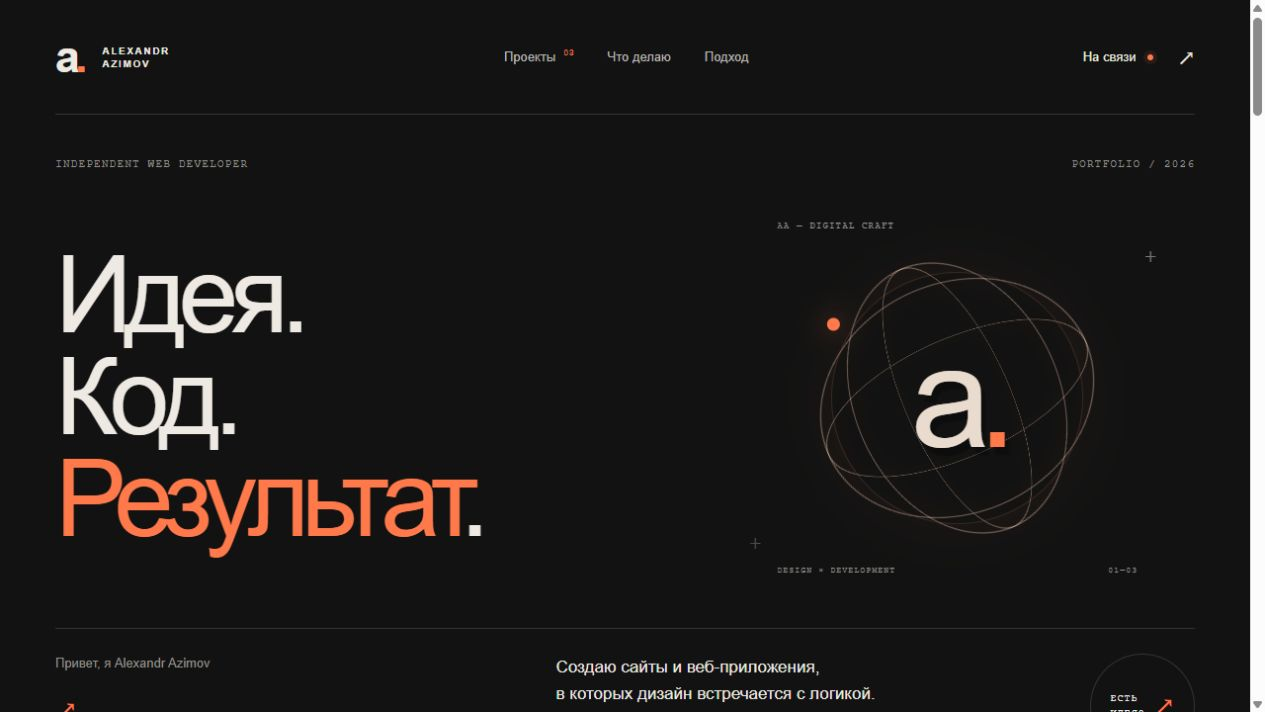
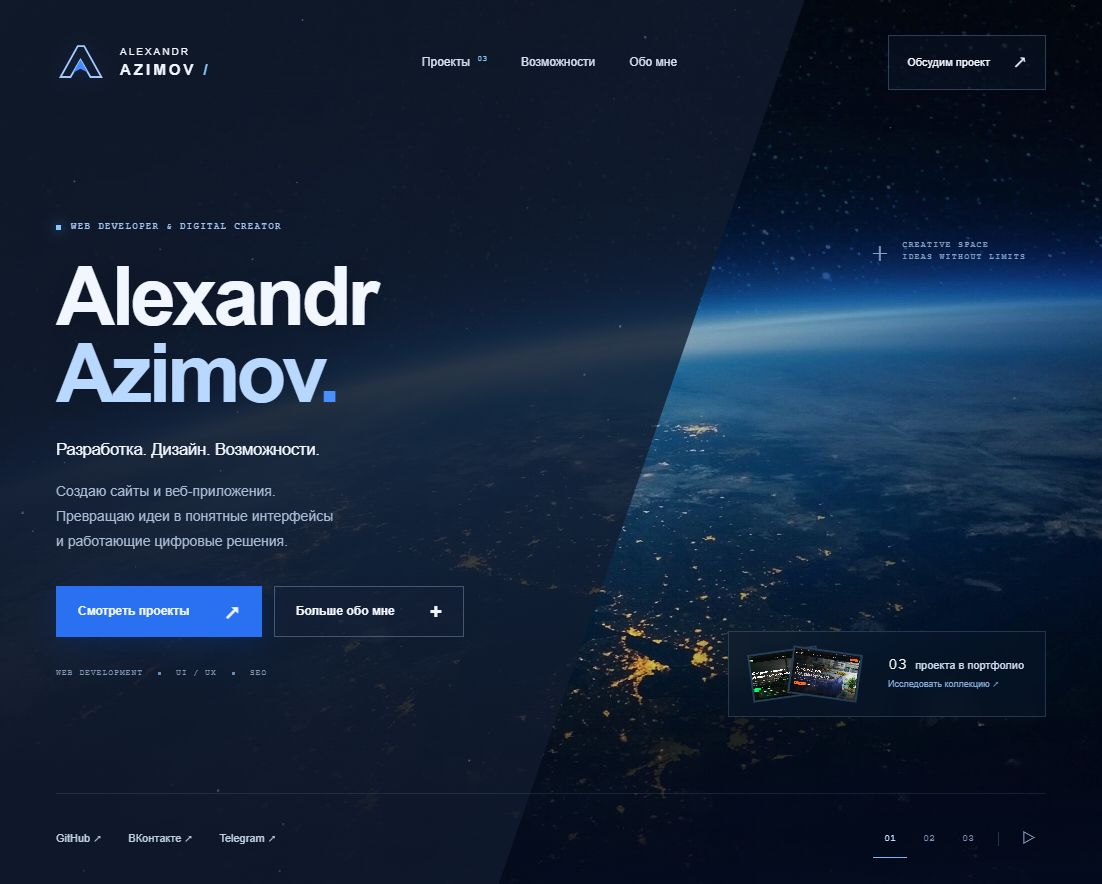
Redesign portfolio with cosmic ATLAS-inspired interface

diff --git a/space.css b/space.css
@@ -1,0 +1,10 @@
+:root{--bg:#080f20;--fg:#f2f6ff;--muted:#a8b7d0;--blue:#397aff;--cyan:#86c9ff;--line:#9dc3ff24;--mono:'Courier New',monospace;color-scheme:dark}
+*{box-sizing:border-box}html{scroll-behavior:smooth}body{margin:0;background:var(--bg);color:var(--fg);font:15px/1.6 Arial,sans-serif;-webkit-font-smoothing:antialiased}h1,h2,h3,p{margin:0}a{color:inherit;text-decoration:none}button{font:inherit;cursor:pointer}img{max-width:100%;display:block}a,button,summary{-webkit-tap-highlight-color:transparent}a:focus-visible,button:focus-visible,summary:focus-visible{outline:2px solid #9cdbff;outline-offset:5px}::selection{background:#3678dd;color:white}.wrap{width:min(1400px,calc(100% - 112px));margin:auto}.mono{font:10px/1.5 var(--mono);letter-spacing:1.4px}.muted{color:var(--muted)}.accent{color:var(--cyan)}.skip{position:fixed;top:-90px;left:15px;background:var(--blue);color:white;padding:12px;z-index:50}.skip:focus{top:10px}.cosmos,.diagonal,#particles{position:fixed;inset:0;pointer-events:none;z-index:-1}.cosmos{background:#040b19}.cosmos:after{content:'';position:absolute;inset:0;background:linear-gradient(90deg,#040b1950,transparent 80%),linear-gradient(0deg,#040d25bf,transparent 25%,#07102630)}.space-scene{position:absolute;inset:0;background-size:cover;background-position:center;opacity:0;transition:opacity 1.7s ease;transform:scale(1.025)}.space-scene.active{opacity:1;animation:drift 28s ease-in-out infinite alternate}.space-scene[data-scene="0"]{background-image:url('assets/space-earth.jpg')}.space-scene[data-scene="1"]{background-image:url('assets/space-orbit.jpg')}.space-scene[data-scene="2"]{background-image:url('assets/space-stars.jpg')}.diagonal{z-index:0;width:73%;background:linear-gradient(120deg,#111a2be6,#111c30b8);clip-path:polygon(0 0,100% 0,62% 100%,0 100%)}.diagonal:after{content:'';position:absolute;width:1px;height:150%;background:#5c9dff66;right:20%;top:-10%;transform:rotate(19deg)}#particles{z-index:1;opacity:.65}body>header,main,.hero-footer{position:relative;z-index:2}.header{height:125px;display:flex;align-items:center;gap:50px;justify-content:space-between}.brand{display:flex;align-items:center;gap:15px;font-size:10px;line-height:1.5;letter-spacing:2px}.brand strong{font-size:15px;letter-spacing:3px}.brand-slash{color:var(--cyan)}.brand-icon{width:49px;height:49px;color:#a5c8ff;filter:drop-shadow(0 0 10px #307cff42)}.nav{display:flex;gap:34px;font-size:12px;color:#d6e2f3}.nav a,.hero-socials a{transition:color .2s}.nav a:hover,.hero-socials a:hover{color:var(--cyan)}sup{font:8px var(--mono);color:var(--cyan);margin-left:4px}.header-contact{display:flex;gap:23px;font-size:11px;align-items:center;border:1px solid #96beff44;padding:11px 18px;background:#15243c40}.header-contact span{font-size:19px}.header-contact:hover{background:#2268e25c}.mobile-projects{display:none}.hero{min-height:calc(100svh - 216px);position:relative;display:flex;align-items:center;padding-top:32px;padding-bottom:50px}.hero-copy{width:65%;max-width:710px}.hero-kicker{display:flex;align-items:center;gap:10px;color:#a3c4f4;font-size:9px;margin-bottom:25px}.status-dot{width:5px;height:5px;background:#86c9ff;box-shadow:0 0 12px #5799ff}.hero h1{font-size:clamp(64px,7.4vw,112px);line-height:.94;letter-spacing:-.045em;font-weight:600;text-shadow:0 4px 35px #0003}.hero h1>span{color:#b8d8ff}.name-dot{color:#4a8fff}.hero-role{font-size:clamp(16px,1.5vw,22px);margin-top:25px;letter-spacing:-.01em}.hero-description{color:#aabbd5;font-size:14px;line-height:1.8;margin-top:15px}.hero-actions{display:flex;gap:12px;margin-top:32px}.button{padding:14px 21px;font-size:12px;font-weight:600;display:inline-flex;gap:35px;align-items:center;min-height:51px;border:1px solid transparent;transition:background .25s,transform .25s}.button span{font-size:21px;line-height:1}.button:hover{transform:translateY(-3px)}.button.primary{background:#2971f0;box-shadow:0 6px 28px #003aaa45}.button.primary:hover{background:#4386ff}.button.secondary{border-color:#bfd5ff4d;background:#15223d44}.button.secondary:hover{background:#294e7755}.hero-tech{display:flex;align-items:center;gap:15px;margin-top:30px;color:#839bbb;font-size:8px;letter-spacing:1px}.hero-tech i{height:3px;width:3px;background:#6289be}.hero-coordinate{position:absolute;right:2%;top:17%;display:flex;gap:12px;color:#b0d4f6b8;font-size:8px}.coordinate-mark{font-size:30px;font-weight:300;line-height:1}.project-teaser{position:absolute;bottom:76px;right:0;padding:18px 21px;background:#0b182d66;border:1px solid #a5ccff30;backdrop-filter:blur(14px);display:flex;align-items:center;gap:21px;transition:background .3s,transform .3s}.project-teaser:hover{background:#1e3c636e;transform:translateY(-4px)}.teaser-pictures{display:flex;padding-right:7px}.teaser-pictures img{width:70px;height:48px;object-fit:cover;object-position:top;border:2px solid #263e59;transform:rotate(-8deg)}.teaser-pictures img+img{margin-left:-30px;transform:rotate(8deg)}.project-teaser>span:last-child{font-size:11px;color:#cedbf0}.project-teaser strong{font:16px var(--mono);margin-right:5px;color:white}.project-teaser small{font-size:9px;color:#84addd}.hero-footer{height:91px;display:flex;justify-content:space-between;align-items:center;border-top:1px solid #9bbdf120}.hero-socials{display:flex;gap:27px;font-size:11px;color:#c0d0e7}.scene-controls{display:flex;align-items:center;gap:5px}.scene-controls button{background:none;color:#7e94b2;border:0;border-bottom:1px solid transparent;min-width:34px;height:37px;padding:6px 7px;font:10px var(--mono);transition:color .2s}.scene-controls button.selected{border-color:#79b5ff;color:#c2deff}.scene-controls button:hover{color:white}.scene-divider{height:14px;width:1px;background:#8294b74a;margin:0 8px}.scene-controls #motion-toggle{font:17px Arial}.motion-paused .space-scene{animation-play-state:paused}.panel-open{overflow:hidden}
+/* Side panel echoes the original ATLAS layout, with real portfolio content. */
+#studio-panel{color:var(--fg);background:#0a1425f5;backdrop-filter:blur(25px);padding:0;border:0;border-left:1px solid #74a9ff70;box-shadow:-25px 0 90px #0008;width:min(1000px,78vw);max-width:100vw;height:100dvh;max-height:100dvh;margin:0 0 0 auto;inset:0;overflow:hidden}#studio-panel[open]{animation:panel-in .45s cubic-bezier(.2,.75,.2,1)}#studio-panel::backdrop{background:#01061152;backdrop-filter:blur(2px)}.panel-header{height:77px;display:flex;align-items:center;padding:0 35px;gap:25px;border-bottom:1px solid var(--line);background:#0c1829f5}.panel-brand{color:#8fc0ff;font-size:9px;white-space:nowrap}.panel-header nav{display:flex;gap:20px;margin-left:auto;font-size:11px;color:#b5c8e3}.panel-header nav a:hover{color:white}.panel-close{width:38px;height:38px;background:transparent;color:#c1d5f3;border:1px solid #a1b9dc30;font-size:27px;line-height:1;font-weight:300;flex-shrink:0;transition:background .2s}.panel-close:hover{background:#3475cc3b}.panel-scroll{height:calc(100% - 77px);overflow-y:auto;overscroll-behavior:contain;scroll-behavior:smooth;scrollbar-width:thin;scrollbar-color:#32517d #0a1425}.panel-scroll .wrap{width:calc(100% - 76px);max-width:900px}.section{padding:51px 0 48px;scroll-margin-top:30px}.section-top{display:flex;justify-content:space-between;align-items:center;gap:15px;margin-bottom:28px}.section-top>.mono:last-child:not(:first-child){font-size:8px}.eyebrow{font-size:9px;color:#a3c8fc}.eyebrow:before{content:'+';margin-right:10px;color:#5c9bff}h2{font-size:clamp(32px,3.5vw,50px);font-weight:500;line-height:1.1;letter-spacing:-.04em}.section-heading{display:flex;align-items:end;justify-content:space-between;gap:20px;margin-bottom:32px}.section-heading p{font-size:11px;color:var(--muted);line-height:1.8}.projects{display:grid;grid-template-columns:1fr 1fr;gap:28px 20px}.featured{grid-column:1/-1}.project{background:#10213a5e;border:1px solid var(--line);transition:border-color .25s}.project:hover{border-color:#4b91ef7a}.project-image{display:block;position:relative;overflow:hidden;padding:15px 15px 0;background:#17293b}.project-image.green{background:linear-gradient(135deg,#1e3f3e,#122836)}.project-image.blue{background:linear-gradient(135deg,#27425a,#162d48)}.project-image.orange{background:linear-gradient(135deg,#473631,#172b44)}.featured .project-image{padding:24px 36px 0}.project-image img{width:100%;height:auto;aspect-ratio:1.55;object-fit:cover;object-position:top;transition:transform .7s}.featured .project-image img{aspect-ratio:2.05}.project-image:hover img{transform:scale(1.035)}.preview-bar{display:flex;align-items:center;gap:4px;background:#111e30;padding:7px 8px;border:1px solid #b7d6ff15;border-radius:4px 4px 0 0}.preview-bar i{width:3px;height:3px;background:#7289a6;border-radius:50%}.preview-bar>span{font:7px var(--mono);color:#91a5be;margin:auto}.preview-bar .preview-lock{margin:0;font-size:11px}.project-open{position:absolute;bottom:13px;right:13px;display:grid;place-items:center;background:#2b73ee;width:32px;height:32px;font-size:21px;box-shadow:0 4px 20px #0005}.project-info{padding:20px}.project-number{font-size:8px;color:#7e9cbe}.project h3{font-size:24px;letter-spacing:-.025em;font-weight:500;margin:8px 0 11px}.project h3 a{display:flex;justify-content:space-between;gap:10px}.project h3 span{color:#8fb5e7;font-size:20px}.project p{font-size:12px;color:#a5b8d0;line-height:1.8}.tags{display:flex;gap:5px;flex-wrap:wrap;margin-top:16px}.tags>span{font-size:8px;color:#9ebcdd;border:1px solid #88b4f026;padding:4px 7px;background:#6ea8ef07}.featured .project-info{display:grid;grid-template-columns:1fr auto;gap:25px}.featured .project-info>div:first-child{max-width:510px}.featured .tags{align-content:start;max-width:135px;margin-top:2px}.work-footer{display:flex;justify-content:space-between;gap:15px;font-size:8px;margin-top:27px;color:#829ab7}.work-footer a{color:#a8cfff}.expertise{background:#0f1d30;border-top:1px solid var(--line);border-bottom:1px solid var(--line)}.expertise-layout{display:grid;grid-template-columns:.85fr 1.15fr;gap:35px}.expertise-intro{font-size:12px;color:var(--muted);margin-top:20px;line-height:1.8}.big-asterisk{color:#4689f1;font-size:100px;line-height:1.5;display:block;margin-top:15px}.services details{border-top:1px solid var(--line)}.services details:last-child{border-bottom:1px solid var(--line)}summary{display:flex;align-items:center;gap:12px;padding:20px 0;cursor:pointer;list-style:none}summary::-webkit-details-marker{display:none}.service-num{font-size:9px;color:#6694c8}.services h3{font-size:18px;font-weight:500;letter-spacing:-.02em}.expand{position:relative;width:15px;height:15px;margin-left:auto;flex-shrink:0}.expand:before,.expand:after{content:'';position:absolute;top:7px;left:0;width:15px;height:1px;background:#a2c7f7}.expand:after{transform:rotate(90deg)}details[open] .expand:after{transform:rotate(0)}details[open] h3{color:#83b9ff}.service-body{padding:0 0 20px 25px;font-size:12px;color:var(--muted);line-height:1.8}.about-layout{display:grid;grid-template-columns:.7fr 1.3fr;gap:40px;align-items:center}.about-monogram{aspect-ratio:.85;border:1px solid var(--line);background:radial-gradient(ellipse at 30% 20%,#254e793b,transparent 70%),linear-gradient(145deg,#112942,#0c1523);display:grid;place-items:center;position:relative;overflow:hidden}.about-monogram>span:first-child{font-size:80px;color:#5898ed6e;font-weight:700;letter-spacing:-12px;transform:skew(-10deg)}.about-monogram .mono{position:absolute;left:18px;bottom:18px;font-size:8px;color:#8198b7}.about-cross{position:absolute;top:10px;right:14px;color:#66a1f0}.about-layout h2{font-size:36px}.about-layout p{font-size:13px;margin-top:20px;color:#c0cee2}.about-layout p.muted{font-size:12px;color:var(--muted);margin-top:12px}.text-link{display:inline-flex;align-items:center;gap:22px;margin-top:20px;border-bottom:1px solid #5c90cf7d;padding-bottom:7px;font-size:11px;color:#b1d4ff}.text-link span{font-size:20px}.process{list-style:none;margin:40px 0 0;padding:0;display:grid;grid-template-columns:repeat(3,1fr);gap:22px}.process li{padding-top:18px;border-top:1px solid var(--line)}.process .mono{font-size:8px;color:#77aaed}.process h3{font-size:17px;font-weight:500;margin:12px 0 9px}.process p{font-size:11px;color:var(--muted)}.contact{background:linear-gradient(120deg,#173b67,#0d213b);border-top:1px solid #80bcff2b}.contact-heading{display:flex;align-items:center;justify-content:space-between;gap:20px}.contact h2{font-size:48px}.contact h2 span{color:#89beff}.contact-arrow{font-size:65px;line-height:1}.contact-bottom{display:flex;justify-content:space-between;align-items:center;gap:20px;margin:25px 0 30px}.contact-bottom>p{font-size:11px;color:#a8c0db}.email-group{display:flex;align-items:center;gap:10px;position:relative}.email{font-size:18px;border-bottom:1px solid #aac8ff77;padding-bottom:4px;letter-spacing:-.03em}.copy-email{height:33px;width:33px;display:grid;place-items:center;border:1px solid #9fcbff40;background:transparent;color:#a9cdf8}.copy-status{position:absolute;bottom:-23px;right:0;font-size:10px}.socials{display:grid;grid-template-columns:repeat(3,1fr);gap:15px;padding-top:20px;border-top:1px solid #94bffc33}.socials a{display:flex;justify-content:space-between;font-size:12px}.socials a:hover{color:#9ed2ff}.footer{display:flex;justify-content:space-between;gap:20px;padding:22px 0;color:#6d87a8}.footer .mono{font-size:8px}@keyframes drift{from{transform:scale(1.025)}to{transform:scale(1.10) translate(-.5%,.3%)}}@keyframes panel-in{from{opacity:.3;transform:translateX(70px)}to{opacity:1;transform:translateX(0)}}
+@media(min-width:1600px){.hero h1{font-size:128px}.hero-description{font-size:16px}.hero-role{font-size:24px}.hero-actions{margin-top:36px}.button{font-size:14px;padding:16px 24px}}
+@media(max-width:1000px){.wrap{width:calc(100% - 70px)}.header{gap:25px}.nav{gap:22px;font-size:11px}.header-contact{padding:9px 12px;font-size:10px}.hero-copy{width:75%}.hero h1{font-size:90px}.project-teaser{bottom:25px;right:0;padding:13px;gap:12px}.hero-coordinate{top:12%;right:0}.teaser-pictures img{width:54px;height:40px}.hero-tech{max-width:70%}#studio-panel{width:88vw}.panel-scroll .wrap{width:calc(100% - 56px)}.panel-header{padding:0 28px;gap:16px}.panel-header nav{gap:17px}.featured .project-info{display:block}.featured .tags{max-width:none;margin-top:14px}.contact h2{font-size:42px}.contact-bottom{align-items:start;flex-direction:column;gap:20px}}
+@media(max-width:700px){.wrap{width:calc(100% - 40px)}.header{height:94px;gap:15px}.brand{font-size:8px;gap:10px}.brand strong{font-size:12px;letter-spacing:2px}.brand-icon{width:39px;height:39px}.nav,.header-contact{display:none}.mobile-projects{display:block;font-size:11px;color:#a6cbff;padding:9px 13px;border:1px solid #9fbffb38}.hero{min-height:calc(100svh - 175px);padding-top:28px;padding-bottom:42px}.hero-copy{width:100%;max-width:520px}.hero-kicker{font-size:8px;letter-spacing:1px;margin-bottom:25px}.hero h1{font-size:clamp(62px,15vw,94px)}.hero-role{font-size:15px;margin-top:22px}.hero-description{font-size:13px;line-height:1.9;margin-top:14px}.hero-actions{gap:10px;margin-top:25px;flex-wrap:wrap}.button{min-height:46px;padding:12px 14px;font-size:11px;gap:16px}.button span{font-size:18px}.hero-tech{max-width:100%;font-size:7px;gap:12px;margin-top:25px}.hero-coordinate,.project-teaser{display:none}.diagonal{width:100%;clip-path:polygon(0 0,100% 0,65% 100%,0 100%);background:linear-gradient(110deg,#0c162ae8,#111e39b0)}.space-scene{background-position:63% center}.cosmos:after{background:linear-gradient(0deg,#070f21b3,transparent 60%)}.hero-footer{height:81px;gap:15px;align-items:center}.hero-socials{gap:15px;font-size:9px}.scene-controls{gap:0}.scene-controls button{min-width:25px;padding:4px;font-size:8px}.scene-divider{margin:0 4px}#studio-panel{width:100%;border:0}.panel-header{height:66px;padding:0 18px;gap:12px}.panel-brand{display:none}.panel-header nav{margin:0;gap:17px;flex:1;font-size:10px}.panel-close{height:33px;width:33px}.panel-scroll{height:calc(100% - 66px)}.panel-scroll .wrap{width:calc(100% - 40px)}.section{padding:36px 0}.section-top{margin-bottom:23px}.section-top>.mono:last-child:not(:first-child){display:none}.eyebrow{font-size:8px;letter-spacing:1px}.section-heading{display:block;margin-bottom:25px}h2{font-size:37px}.section-heading p{font-size:11px;margin-top:18px}.projects{grid-template-columns:1fr;gap:23px}.featured{grid-column:auto}.featured .project-image,.project-image{padding:15px 15px 0}.featured .project-image img,.project-image img{aspect-ratio:1.65}.project-info,.featured .project-info{padding:18px;display:block}.project h3{font-size:24px}.project p{font-size:12px}.work-footer{font-size:7px;gap:20px;align-items:start}.work-footer>span{max-width:120px}.work-footer a{text-align:right}.expertise-layout{grid-template-columns:1fr;gap:25px}.expertise-layout>div:first-child{position:relative}.expertise-intro{font-size:12px;margin-top:17px}.big-asterisk{position:absolute;right:5px;top:0;font-size:78px;margin:0}.services h3{font-size:19px}.service-body{font-size:12px}.about-layout{grid-template-columns:1fr;gap:27px}.about-monogram{aspect-ratio:2.5}.about-monogram>span:first-child{font-size:105px}.about-layout h2{font-size:36px}.about-layout h2 br:nth-child(2){display:none}.process{grid-template-columns:1fr;gap:22px;margin-top:30px}.process h3{font-size:19px;margin-top:10px}.process p{font-size:12px}.contact h2{font-size:36px}.contact-arrow{font-size:42px;align-self:start}.contact-bottom{margin-top:22px;margin-bottom:32px}.email{font-size:19px}.socials{gap:20px}.socials a{font-size:11px}.footer .mono{font-size:7px}.panel-scroll{scrollbar-width:thin}}
+@media(max-width:360px){.hero-footer{flex-wrap:wrap;align-content:center;gap:8px}.hero-socials{gap:18px}.scene-controls{margin-left:auto}.hero h1{font-size:60px}.hero-kicker{font-size:7px}.hero-role{font-size:13px}.button{font-size:10px;gap:12px}.hero-tech{font-size:6px}.panel-header nav{gap:12px}.email{font-size:17px}}
+.featured .project-image img{aspect-ratio:2.3}
+@media(prefers-reduced-motion:reduce){html,.panel-scroll{scroll-behavior:auto}*,*:before,*:after{animation:none!important;transition:none!important}}

diff --git a/index.html b/index.html
@@ -1,20 +1,21 @@
 <!doctype html>
 <html lang="ru">
 <head>
-<meta charset="utf-8"><meta name="viewport" content="width=device-width, initial-scale=1"><meta name="theme-color" content="#121212">
+<meta charset="utf-8"><meta name="viewport" content="width=device-width, initial-scale=1"><meta name="theme-color" content="#080f20">
 <title>Alexandr Azimov — сайты, веб-приложения и SEO</title>
 <meta name="description" content="Портфолио Alexandr Azimov. Создание сайтов, адаптивная вёрстка, веб-приложения и техническое SEO. Проекты Grinity Garant, KADR-PROF и ДонКонтур.">
 <link rel="canonical" href="https://mrx-aid.github.io/"><meta property="og:type" content="website"><meta property="og:locale" content="ru_RU"><meta property="og:title" content="Alexandr Azimov — от идеи до работающего сайта"><meta property="og:description" content="Сайты, интерфейсы и веб-приложения. Посмотрите избранные проекты и обсудим вашу задачу."><meta property="og:url" content="https://mrx-aid.github.io/"><meta property="og:image" content="https://mrx-aid.github.io/assets/social.jpg"><meta name="twitter:card" content="summary_large_image">
-<link rel="icon" href="assets/favicon.svg" type="image/svg+xml"><link rel="stylesheet" href="style.css"><script src="script.js" defer></script>
+<link rel="icon" href="assets/favicon.svg" type="image/svg+xml"><link rel="preload" as="image" href="assets/space-earth.jpg"><link rel="stylesheet" href="space.css"><script src="script.js" defer></script>
 <script type="application/ld+json">{"@context":"https://schema.org","@type":"Person","name":"Alexandr Azimov","url":"https://mrx-aid.github.io/","jobTitle":"Веб-разработчик","email":"alex.azimov@icloud.com","sameAs":["https://github.com/mrx-aid","https://vk.ru/escl.nesss","https://t.me/mrx_adm"],"knowsAbout":["Веб-разработка","Адаптивная вёрстка","Веб-приложения","Техническое SEO"]}</script>
 </head>
 <body>
 <a class="skip" href="#main">Перейти к содержимому</a>
-<header class="header wrap"><a class="brand" href="#" aria-label="Alexandr Azimov — в начало"><span class="brand-icon">a<span>.</span></span><span>ALEXANDR<br>AZIMOV</span></a><nav class="nav" aria-label="Основная навигация"><a href="#work">Проекты <sup>03</sup></a><a href="#expertise">Что делаю</a><a href="#about">Подход</a></nav><a class="header-contact" href="#contact">На связи <span class="status-dot"></span><span aria-hidden="true">↗</span></a><button class="menu-toggle" type="button" aria-expanded="false" aria-controls="mobile-nav" aria-label="Открыть меню"><span></span><span></span></button></header>
-<nav id="mobile-nav" class="mobile-nav" aria-label="Мобильная навигация" hidden><a href="#work">Проекты</a><a href="#expertise">Что делаю</a><a href="#about">Подход</a><a href="#contact">Контакты</a></nav>
+<div class="cosmos" aria-hidden="true"><div class="space-scene active" data-scene="0"></div><div class="space-scene" data-scene="1"></div><div class="space-scene" data-scene="2"></div></div><div class="diagonal" aria-hidden="true"></div><canvas id="particles" aria-hidden="true"></canvas>
+<header class="header wrap"><a class="brand" href="#" aria-label="Alexandr Azimov — в начало"><svg class="brand-icon" viewBox="0 0 54 54" aria-hidden="true"><path d="M5 43 24 9h7L50 43H38L27 24 16 43Z" fill="none" stroke="currentColor" stroke-width="2"/><path d="m19 38 8-14 8 14-8-4Z" fill="#438cff"/></svg><span>ALEXANDR<br><strong>AZIMOV<span class="brand-slash"> / </span></strong></span></a><nav class="nav" aria-label="Основная навигация"><a href="#work">Проекты <sup>03</sup></a><a href="#expertise">Возможности</a><a href="#about">Обо мне</a></nav><a class="header-contact" href="#contact">Обсудим проект <span aria-hidden="true">↗</span></a><a class="mobile-projects" href="#work">Проекты ↗</a></header>
 <main id="main">
-<section class="hero wrap" aria-labelledby="hero-title"><div class="hero-kicker"><span class="mono">INDEPENDENT WEB DEVELOPER</span><span class="mono hero-index">PORTFOLIO / 2026</span></div><div class="hero-main"><div class="hero-copy"><h1 id="hero-title">Идея.<br>Код.<br><span class="accent">Результат<span class="period">.</span></span></h1></div><div class="hero-visual" aria-hidden="true"><div class="visual-cross cross-one">+</div><div class="visual-cross cross-two">+</div><div class="visual-label mono">AA — DIGITAL CRAFT</div><div class="orbital"><div class="orbit orbit-a"></div><div class="orbit orbit-b"></div><div class="orbit orbit-c"></div><div class="orbit orbit-d"></div><div class="orbit orbit-e"></div><div class="orbit-core">a<span>.</span></div><span class="satellite"></span></div><div class="visual-bottom mono"><span>DESIGN × DEVELOPMENT</span><span>01—03</span></div></div></div><div class="hero-bottom"><span class="intro-name">Привет, я Alexandr Azimov <span aria-hidden="true">↗</span></span><div class="hero-description"><p>Создаю сайты и веб-приложения,<br>в которых дизайн встречается с логикой.</p><a class="text-link" href="#work">Посмотреть работы <span aria-hidden="true">↓</span></a></div><a class="round-cta" href="https://t.me/mrx_adm" target="_blank" rel="noopener noreferrer" aria-label="Обсудить проект в Telegram"><span>ЕСТЬ<br>ИДЕЯ?</span><span aria-hidden="true">↗</span></a></div></section>
-<div class="discipline-strip" aria-label="Направления работы"><div class="wrap mono"><span>WEB DEVELOPMENT</span><span class="asterisk" aria-hidden="true">✳</span><span>UI / UX</span><span class="asterisk" aria-hidden="true">✳</span><span>TECHNICAL SEO</span><span class="asterisk" aria-hidden="true">✳</span><span>WEB APPLICATIONS</span></div></div>
+<section class="hero wrap" aria-labelledby="hero-title"><div class="hero-copy"><div class="hero-kicker mono"><span class="status-dot"></span> WEB DEVELOPER & DIGITAL CREATOR</div><h1 id="hero-title">Alexandr<br><span>Azimov<span class="name-dot">.</span></span></h1><p class="hero-role">Разработка. Дизайн. Возможности.</p><p class="hero-description">Создаю сайты и веб-приложения.<br>Превращаю идеи в понятные интерфейсы<br>и работающие цифровые решения.</p><div class="hero-actions"><a class="button primary" href="#work">Смотреть проекты <span aria-hidden="true">↗</span></a><a class="button secondary" href="#about">Больше обо мне <span aria-hidden="true">+</span></a></div><div class="hero-tech mono"><span>WEB DEVELOPMENT</span><i></i><span>UI / UX</span><i></i><span>SEO</span></div></div><div class="hero-coordinate mono" aria-hidden="true"><span class="coordinate-mark">+</span><span>CREATIVE SPACE<br>IDEAS WITHOUT LIMITS</span></div><a class="project-teaser" href="#work"><span class="teaser-pictures"><img src="assets/grinity.jpg" alt="" width="70" height="46"><img src="assets/donkontur.jpg" alt="" width="70" height="46"></span><span><strong>03</strong> проекта в портфолио<br><small>Исследовать коллекцию ↗</small></span></a></section>
+<div class="hero-footer wrap"><div class="hero-socials"><a href="https://github.com/mrx-aid" target="_blank" rel="noopener noreferrer">GitHub ↗</a><a href="https://vk.ru/escl.nesss" target="_blank" rel="noopener noreferrer">ВКонтакте ↗</a><a href="https://t.me/mrx_adm" target="_blank" rel="noopener noreferrer">Telegram ↗</a></div><div class="scene-controls" aria-label="Выбор космического фона"><button type="button" data-background="0" class="selected" aria-label="Фон: Земля" aria-pressed="true">01</button><button type="button" data-background="1" aria-label="Фон: орбита" aria-pressed="false">02</button><button type="button" data-background="2" aria-label="Фон: звёзды" aria-pressed="false">03</button><span class="scene-divider"></span><button type="button" id="motion-toggle" aria-label="Остановить анимацию" aria-pressed="false">Ⅱ</button></div></div>
+<dialog id="studio-panel" aria-label="Портфолио Alexandr Azimov"><div class="panel-header"><a href="#work" class="panel-brand mono">AA / PORTFOLIO</a><nav aria-label="Навигация по портфолио"><a href="#work">Работы</a><a href="#expertise">Услуги</a><a href="#about">Обо мне</a><a href="#contact">Связаться</a></nav><button class="panel-close" type="button" aria-label="Закрыть портфолио">×</button></div><div class="panel-scroll">
 <section class="work section wrap" id="work" aria-labelledby="work-title"><div class="section-top"><span class="eyebrow mono">01 / ИЗБРАННЫЕ ПРОЕКТЫ</span><span class="mono muted">РЕАЛЬНЫЕ САЙТЫ. РАЗНЫЕ ЗАДАЧИ.</span></div><div class="section-heading"><h2 id="work-title">Сделано.<br><span class="muted">И работает.</span></h2><p>От кадровых решений до строительства.<br>У каждого бизнеса — свой характер.<br>У каждого сайта — своя задача.</p></div><div class="projects">
 <article class="project featured"><a class="project-image green" href="https://grinity-garant.ru/" target="_blank" rel="noopener noreferrer" aria-label="Открыть сайт Grinity Garant"><div class="preview-bar"><i></i><i></i><i></i><span>grinity-garant.ru</span><span class="preview-lock">↗</span></div><img src="assets/grinity.jpg" width="1239" height="873" alt="Главная страница Grinity Garant — кадровое агентство в зелёно-чёрной палитре" loading="lazy"><span class="project-open" aria-hidden="true">↗</span></a><div class="project-info"><div><span class="project-number mono">01 / КАДРОВЫЕ РЕШЕНИЯ</span><h3><a href="https://grinity-garant.ru/" target="_blank" rel="noopener noreferrer">Grinity Garant <span aria-hidden="true">↗</span></a></h3><p>Сайт кадровой компании: два понятных маршрута — для работодателей и соискателей. Вакансии, услуги, обучение и формы обращения в едином интерфейсе.</p></div><div class="tags"><span>Корпоративный сайт</span><span>Адаптивная вёрстка</span><span>UI / UX</span></div></div></article>
 <article class="project"><a class="project-image blue" href="https://kadr-prof.ru/" target="_blank" rel="noopener noreferrer" aria-label="Открыть сайт KADR-PROF"><div class="preview-bar"><i></i><i></i><i></i><span>kadr-prof.ru</span><span class="preview-lock">↗</span></div><img src="assets/kadr-prof.jpg" width="1239" height="873" alt="Главная страница KADR-PROF — подбор персонала для предприятий" loading="lazy"><span class="project-open" aria-hidden="true">↗</span></a><div class="project-info"><div><span class="project-number mono">02 / ПОДБОР ПЕРСОНАЛА</span><h3><a href="https://kadr-prof.ru/" target="_blank" rel="noopener noreferrer">KADR-PROF <span aria-hidden="true">↗</span></a></h3><p>Услуги подбора, направления вакансий и полезные материалы. Структура, которая помогает перейти от знакомства с компанией к обсуждению задачи.</p></div><div class="tags"><span>Корпоративный сайт</span><span>Вёрстка</span></div></div></article>
@@ -26,5 +27,6 @@
 <details><summary><span class="mono service-num">04</span><h3>Развитие и поддержка</h3><span class="expand" aria-hidden="true"></span></summary><div class="service-body"><p>Новые страницы и функции, доработка интерфейсов, исправление ошибок и обновление контента. Помогаю проекту оставаться полезным после запуска.</p><div class="tags"><span>Редизайн</span><span>Новые функции</span><span>Поддержка</span></div></div></details></div></div></div></section>
 <section class="about section wrap" id="about" aria-labelledby="about-title"><div class="section-top"><span class="eyebrow mono">03 / ПОДХОД</span><span class="mono muted">ЧЕЛОВЕК ПО ТУ СТОРОНУ КОДА</span></div><div class="about-layout"><div class="about-monogram" aria-hidden="true"><span>AA</span><span class="mono">ALEXANDR<br>AZIMOV / MRX</span><span class="about-cross">+</span></div><div><h2 id="about-title">За каждым<br>интерфейсом —<br><span class="accent">смысл.</span></h2><p>Я Alexandr Azimov. Занимаюсь созданием сайтов, вёрсткой, SEO и разработкой веб-приложений. Мне интересно превращать сложные задачи в понятные цифровые инструменты.</p><p class="muted">Сначала разбираюсь в задаче и аудитории. Затем собираю структуру, дизайн и код в целое. Проверяю детали, которые легко не заметить: поведение на телефоне, состояния кнопок, читаемость и путь к нужному действию.</p><a class="text-link" href="https://github.com/mrx-aid" target="_blank" rel="noopener noreferrer">Познакомиться на GitHub <span aria-hidden="true">↗</span></a></div></div><ol class="process"><li><span class="mono">01 / РАЗОБРАТЬСЯ</span><h3>Задача прежде кода</h3><p>Что нужно бизнесу и что должен получить пользователь.</p></li><li><span class="mono">02 / СОБРАТЬ</span><h3>Всё связано</h3><p>Структура, визуальный язык и функциональность работают вместе.</p></li><li><span class="mono">03 / ПРОВЕРИТЬ</span><h3>Детали имеют вес</h3><p>Адаптивность, навигация и сценарии — до публикации, а не после.</p></li></ol></section>
 <section class="contact section" id="contact" aria-labelledby="contact-title"><div class="wrap"><div class="section-top"><span class="eyebrow mono">04 / НА СВЯЗИ</span><span class="mono">СЛЕДУЮЩИЙ ПРОЕКТ МОЖЕТ БЫТЬ ВАШИМ</span></div><div class="contact-heading"><h2 id="contact-title">Есть идея?<br>Давайте <span>создадим.</span></h2><a class="contact-arrow" href="https://t.me/mrx_adm" target="_blank" rel="noopener noreferrer" aria-label="Написать Alexandr Azimov в Telegram">↗</a></div><div class="contact-bottom"><p>Расскажите о задаче, даже если она<br>пока только в общих чертах.</p><div class="email-group"><a class="email" href="mailto:alex.azimov@icloud.com">alex.azimov@icloud.com</a><button class="copy-email" type="button" aria-label="Скопировать электронную почту" title="Скопировать почту"><svg viewBox="0 0 24 24" width="19" height="19" aria-hidden="true" fill="none" stroke="currentColor" stroke-width="1.5"><rect x="8" y="8" width="12" height="13" rx="2"/><path d="M15 8V4a2 2 0 0 0-2-2H4a2 2 0 0 0-2 2v11a2 2 0 0 0 2 2h4"/></svg></button><span class="copy-status" role="status" aria-live="polite"></span></div></div><div class="socials"><a href="https://t.me/mrx_adm" target="_blank" rel="noopener noreferrer">Telegram <span>↗</span></a><a href="https://vk.ru/escl.nesss" target="_blank" rel="noopener noreferrer">ВКонтакте <span>↗</span></a><a href="https://github.com/mrx-aid" target="_blank" rel="noopener noreferrer">GitHub <span>↗</span></a></div></div></section>
-</main><footer class="footer wrap"><span class="mono">© <span id="year">2026</span> ALEXANDR AZIMOV</span><span class="mono">DESIGNED WITH INTENT. BUILT WITH CARE.</span><a href="#" class="mono">НАВЕРХ ↑</a></footer>
+<footer class="footer wrap"><span class="mono">© <span id="year">2026</span> ALEXANDR AZIMOV</span><a href="#work" class="mono">К ПРОЕКТАМ ↑</a></footer></div></dialog></main>
+<noscript><style>#studio-panel{display:block;position:relative;inset:auto;width:100%;height:auto;max-height:none;margin:0}.panel-scroll{overflow:visible;height:auto}.panel-close,.scene-controls{display:none}body{overflow:auto}</style></noscript>
 </body></html>

diff --git a/script.js b/script.js
@@ -1,10 +1,42 @@
-const toggle = document.querySelector('.menu-toggle');
-const mobileNav = document.querySelector('#mobile-nav');
-function closeMenu() { mobileNav.hidden = true; toggle.setAttribute('aria-expanded', 'false'); toggle.setAttribute('aria-label', 'Открыть меню'); }
-toggle.addEventListener('click', () => { const open = toggle.getAttribute('aria-expanded') !== 'true'; mobileNav.hidden = !open; toggle.setAttribute('aria-expanded', String(open)); toggle.setAttribute('aria-label', open ? 'Закрыть меню' : 'Открыть меню'); });
-mobileNav.querySelectorAll('a').forEach(link => link.addEventListener('click', closeMenu));
-document.addEventListener('keydown', event => { if (event.key === 'Escape' && !mobileNav.hidden) { closeMenu(); toggle.focus(); } });
-window.matchMedia('(min-width: 701px)').addEventListener('change', event => { if(event.matches) closeMenu(); });
+const panel = document.querySelector('#studio-panel');
+const panelScroll = document.querySelector('.panel-scroll');
+const reducedMotion = matchMedia('(prefers-reduced-motion: reduce)');
+let opener = null;
+function openPanel(id, trigger) {
+  const target = document.getElementById(id);
+  if (!target || !panel.contains(target)) return;
+  if (!panel.open) { opener = trigger; panel.showModal(); document.body.classList.add('panel-open'); }
+  requestAnimationFrame(() => { panelScroll.scrollTo({top:target.offsetTop - panelScroll.offsetTop,behavior:'instant'}); });
+}
+document.querySelectorAll('a[href^="#"]').forEach(link => link.addEventListener('click', event => {
+  const id = link.getAttribute('href').slice(1);
+  if (document.getElementById(id) && panel.contains(document.getElementById(id))) { event.preventDefault(); openPanel(id, link); }
+}));
+document.querySelector('.panel-close').addEventListener('click', () => panel.close());
+panel.addEventListener('click', event => { const r = panel.getBoundingClientRect(); if(event.target === panel && (event.clientX < r.left || event.clientX > r.right)) panel.close(); });
+panel.addEventListener('close', () => { document.body.classList.remove('panel-open'); if(opener) opener.focus({preventScroll:true}); });
+if(location.hash) openPanel(location.hash.slice(1),null);
+const sceneButtons = [...document.querySelectorAll('[data-background]')];
+sceneButtons.forEach(button => button.addEventListener('click', () => {
+  const selected = button.dataset.background;
+  document.querySelectorAll('.space-scene').forEach(scene => scene.classList.toggle('active',scene.dataset.scene===selected));
+  sceneButtons.forEach(item=>{const active=item===button;item.classList.toggle('selected',active);item.setAttribute('aria-pressed',String(active));});
+}));
+const canvas = document.querySelector('#particles');
+const ctx = canvas.getContext('2d');
+const motionButton = document.querySelector('#motion-toggle');
+let paused = reducedMotion.matches;
+let stars = [], frame = 0, previous = 0;
+function resizeStars() { const ratio=Math.min(devicePixelRatio || 1,2);canvas.width=innerWidth*ratio;canvas.height=innerHeight*ratio;canvas.style.width=innerWidth+'px';canvas.style.height=innerHeight+'px';ctx.setTransform(ratio,0,0,ratio,0,0);stars=Array.from({length:Math.min(70,Math.round(innerWidth/20))},()=>({x:Math.random()*innerWidth,y:Math.random()*innerHeight,r:Math.random()*.9+.25,v:Math.random()*.2+.08,o:Math.random()*.45+.2}));drawStars(0); }
+function drawStars(delta) { ctx.clearRect(0,0,innerWidth,innerHeight);for(const s of stars){s.y-=s.v*delta/16.67;if(s.y<0)s.y=innerHeight;ctx.fillStyle=`rgba(188,219,255,${s.o})`;ctx.beginPath();ctx.arc(s.x,s.y,s.r,0,Math.PI*2);ctx.fill();} }
+function animate(time){if(paused||document.hidden||panel.open){frame=0;return;}drawStars(Math.min(time-previous,40));previous=time;frame=requestAnimationFrame(animate);}
+function startMotion(){cancelAnimationFrame(frame);frame=0;document.body.classList.toggle('motion-paused',paused);motionButton.setAttribute('aria-pressed',String(paused));motionButton.setAttribute('aria-label',paused?'Включить анимацию':'Остановить анимацию');motionButton.textContent=paused?'▷':'Ⅱ';if(!paused&&!document.hidden&&!panel.open)frame=requestAnimationFrame(animate);}
+motionButton.addEventListener('click',()=>{paused=!paused;startMotion();});
+reducedMotion.addEventListener('change',event=>{paused=event.matches;startMotion();});
+document.addEventListener('visibilitychange',startMotion);
+panel.addEventListener('close',startMotion);
+window.addEventListener('resize',resizeStars);
+resizeStars();startMotion();
 const emailButton = document.querySelector('.copy-email');
 const copyStatus = document.querySelector('.copy-status');
 let statusTimer;

diff --git a/README.md b/README.md
@@ -11,8 +11,8 @@ Serve the repository root using a static server, for example `python -m http.ser
 ## Files
 
 - `index.html`: Russian content, projects, contacts and metadata.
-- `style.css`: responsive design and reduced-motion support.
-- `script.js`: mobile navigation and email copy button.
+- `space.css`: space-inspired responsive design, diagonal overlay and side panel.
+- `script.js`: accessible portfolio dialog, scene selection, pausable particles and email copy button.
 - `assets/`: real project screenshots, favicon and social preview.
 
 To add another project, add its screenshot and duplicate a `.project` article. Update the project counter in the navigation. Keep title, link, alt text and description specific to the project.
@@ -22,3 +22,5 @@ To add another project, add its screenshot and duplicate a `.project` article. U
 GitHub Pages serves `main` from the repository root. `.nojekyll` disables Jekyll processing. Update the canonical URL, sitemap and robots file if the domain changes.
 
 Project screenshots showcase the author's work. Brand assets belong to their respective owners.
+
+The space backgrounds were reused from the author's reference site https://alexnesss.github.io/ (img/slide-1.jpg, slide-2.jpg, slide-3.jpg). This repository does not grant any additional rights to those images. No legacy ESCL contacts or project claims were copied.
